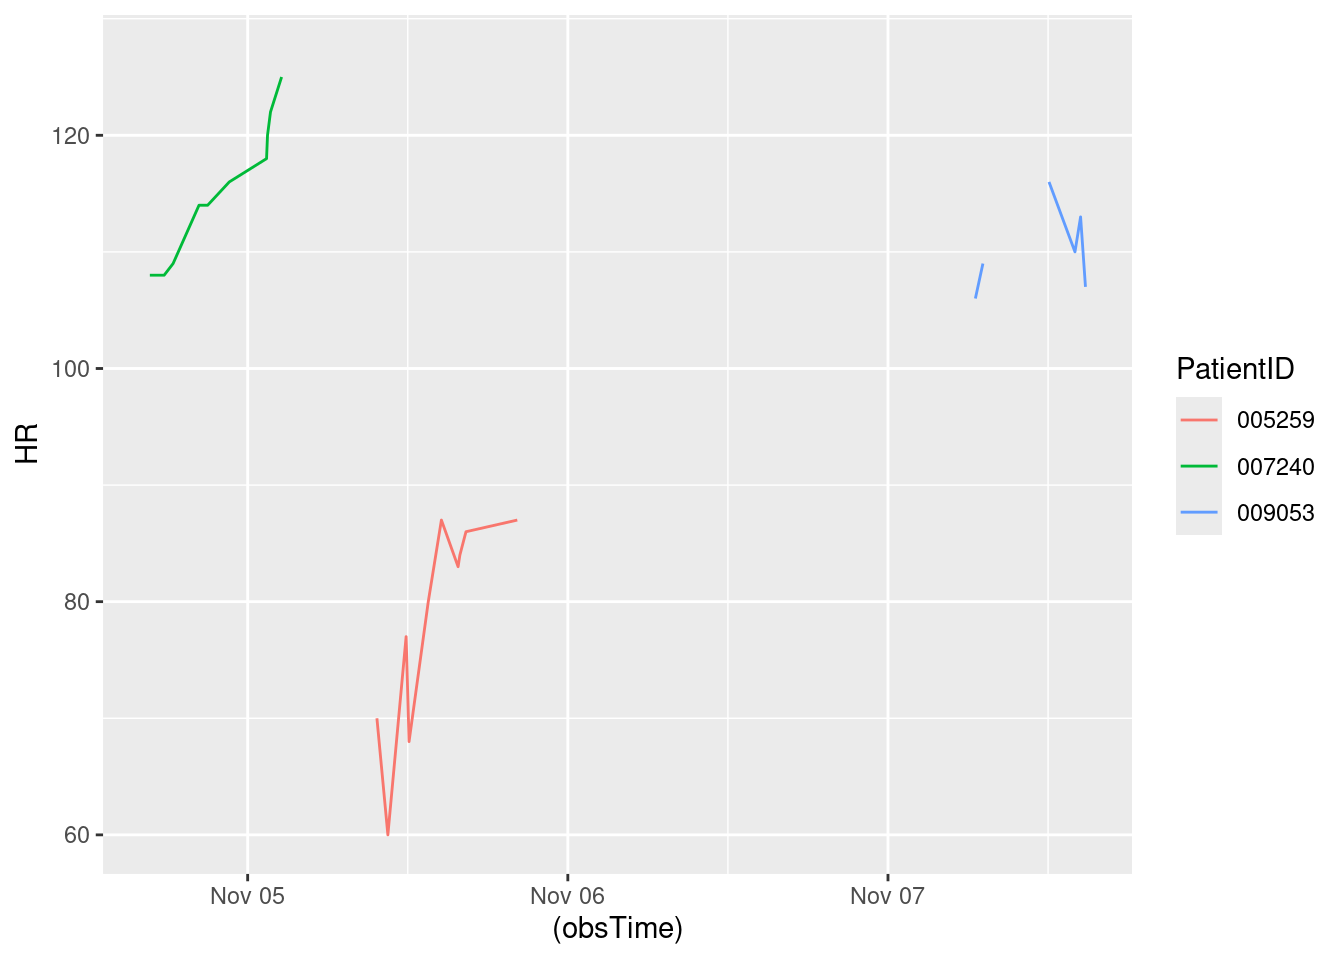
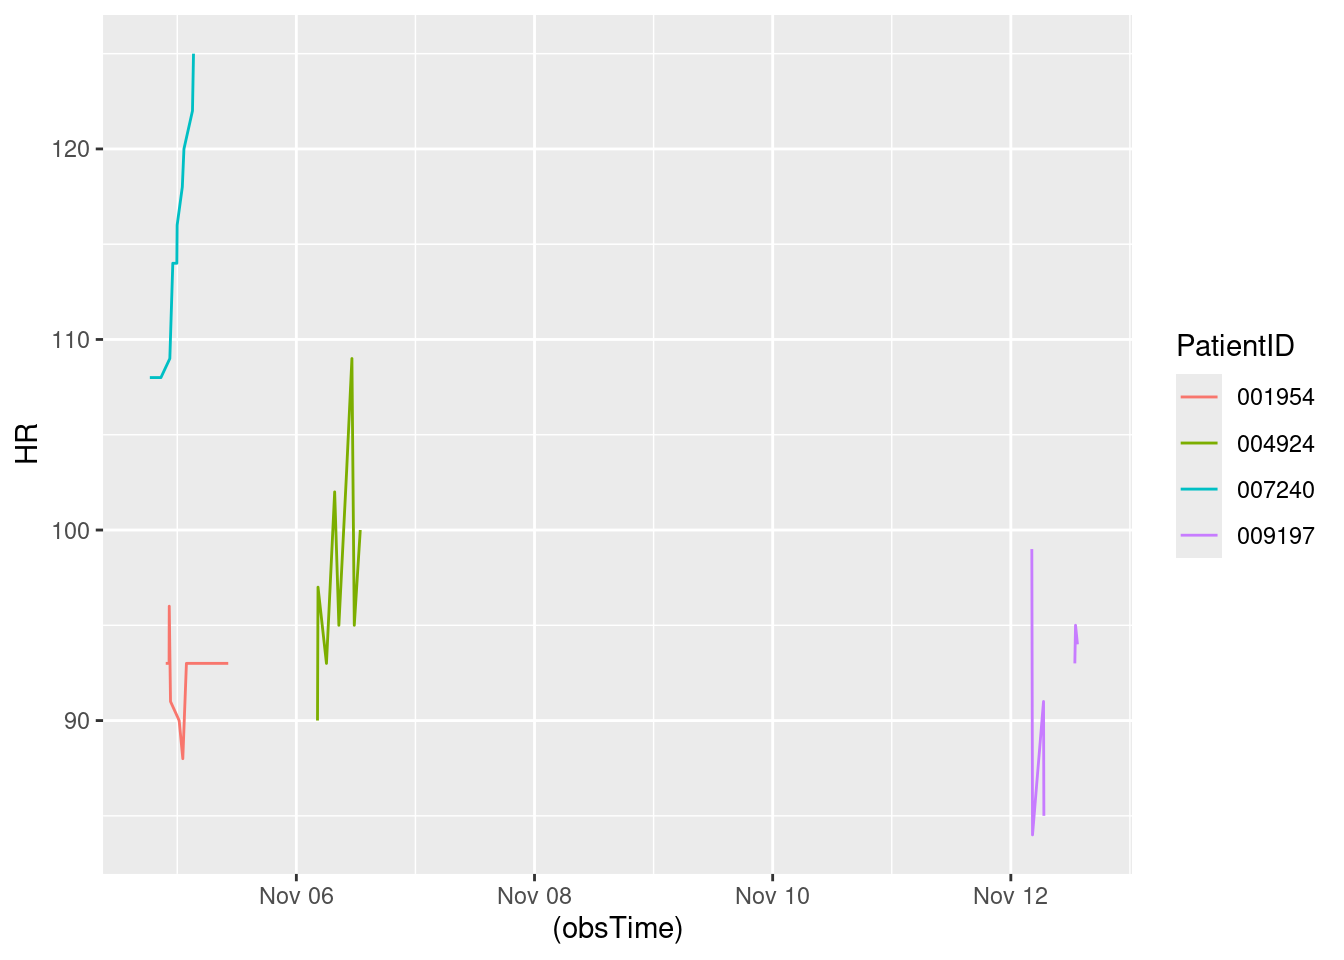
Updated report

diff --git a/HW7.html b/HW7.html
@@ -152,7 +152,7 @@ The following object is masked from 'package:purrr':
 </div>
 <div class="sourceCode cell-code" id="cb8"><pre class="sourceCode r code-with-copy"><code class="sourceCode r"><span id="cb8-1"><a href="#cb8-1" aria-hidden="true" tabindex="-1"></a><span class="fu">toc</span>()</span></code><button title="Copy to Clipboard" class="code-copy-button"><i class="bi"></i></button></pre></div>
 <div class="cell-output cell-output-stdout">
-<pre><code>28.782 sec elapsed</code></pre>
+<pre><code>15.565 sec elapsed</code></pre>
 </div>
 <div class="sourceCode cell-code" id="cb10"><pre class="sourceCode r code-with-copy"><code class="sourceCode r"><span id="cb10-1"><a href="#cb10-1" aria-hidden="true" tabindex="-1"></a><span class="fu">tic</span>()</span>
 <span id="cb10-2"><a href="#cb10-2" aria-hidden="true" tabindex="-1"></a>test1<span class="ot">=</span><span class="fu">makeSepsisDataset</span>(<span class="at">n=</span><span class="dv">50</span>,<span class="at">read_fn =</span> <span class="st">"read_delim"</span>)</span>
@@ -162,7 +162,7 @@ The following object is masked from 'package:purrr':
 </div>
 <div class="sourceCode cell-code" id="cb12"><pre class="sourceCode r code-with-copy"><code class="sourceCode r"><span id="cb12-1"><a href="#cb12-1" aria-hidden="true" tabindex="-1"></a><span class="fu">toc</span>()</span></code><button title="Copy to Clipboard" class="code-copy-button"><i class="bi"></i></button></pre></div>
 <div class="cell-output cell-output-stdout">
-<pre><code>21.588 sec elapsed</code></pre>
+<pre><code>10.504 sec elapsed</code></pre>
 </div>
 <div class="sourceCode cell-code" id="cb14"><pre class="sourceCode r code-with-copy"><code class="sourceCode r"><span id="cb14-1"><a href="#cb14-1" aria-hidden="true" tabindex="-1"></a><span class="fu">tic</span>()</span>
 <span id="cb14-2"><a href="#cb14-2" aria-hidden="true" tabindex="-1"></a>test1<span class="ot">=</span><span class="fu">makeSepsisDataset</span>(<span class="at">n=</span><span class="dv">100</span>,<span class="at">read_fn =</span> <span class="st">"fread"</span>)</span>
@@ -172,7 +172,7 @@ The following object is masked from 'package:purrr':
 </div>
 <div class="sourceCode cell-code" id="cb16"><pre class="sourceCode r code-with-copy"><code class="sourceCode r"><span id="cb16-1"><a href="#cb16-1" aria-hidden="true" tabindex="-1"></a><span class="fu">toc</span>()</span></code><button title="Copy to Clipboard" class="code-copy-button"><i class="bi"></i></button></pre></div>
 <div class="cell-output cell-output-stdout">
-<pre><code>50.987 sec elapsed</code></pre>
+<pre><code>20.696 sec elapsed</code></pre>
 </div>
 <div class="sourceCode cell-code" id="cb18"><pre class="sourceCode r code-with-copy"><code class="sourceCode r"><span id="cb18-1"><a href="#cb18-1" aria-hidden="true" tabindex="-1"></a><span class="fu">tic</span>()</span>
 <span id="cb18-2"><a href="#cb18-2" aria-hidden="true" tabindex="-1"></a>test1<span class="ot">=</span><span class="fu">makeSepsisDataset</span>(<span class="at">n=</span><span class="dv">100</span>,<span class="at">read_fn =</span> <span class="st">"read_delim"</span>)</span>
@@ -182,7 +182,7 @@ The following object is masked from 'package:purrr':
 </div>
 <div class="sourceCode cell-code" id="cb20"><pre class="sourceCode r code-with-copy"><code class="sourceCode r"><span id="cb20-1"><a href="#cb20-1" aria-hidden="true" tabindex="-1"></a><span class="fu">toc</span>()</span></code><button title="Copy to Clipboard" class="code-copy-button"><i class="bi"></i></button></pre></div>
 <div class="cell-output cell-output-stdout">
-<pre><code>43.493 sec elapsed</code></pre>
+<pre><code>16.469 sec elapsed</code></pre>
 </div>
 <div class="sourceCode cell-code" id="cb22"><pre class="sourceCode r code-with-copy"><code class="sourceCode r"><span id="cb22-1"><a href="#cb22-1" aria-hidden="true" tabindex="-1"></a><span class="fu">tic</span>()</span>
 <span id="cb22-2"><a href="#cb22-2" aria-hidden="true" tabindex="-1"></a>test1<span class="ot">=</span><span class="fu">makeSepsisDataset</span>(<span class="at">n=</span><span class="dv">500</span>,<span class="at">read_fn =</span> <span class="st">"fread"</span>)</span>
@@ -192,7 +192,7 @@ The following object is masked from 'package:purrr':
 </div>
 <div class="sourceCode cell-code" id="cb24"><pre class="sourceCode r code-with-copy"><code class="sourceCode r"><span id="cb24-1"><a href="#cb24-1" aria-hidden="true" tabindex="-1"></a><span class="fu">toc</span>()</span></code><button title="Copy to Clipboard" class="code-copy-button"><i class="bi"></i></button></pre></div>
 <div class="cell-output cell-output-stdout">
-<pre><code>262.279 sec elapsed</code></pre>
+<pre><code>97.908 sec elapsed</code></pre>
 </div>
 <div class="sourceCode cell-code" id="cb26"><pre class="sourceCode r code-with-copy"><code class="sourceCode r"><span id="cb26-1"><a href="#cb26-1" aria-hidden="true" tabindex="-1"></a><span class="fu">tic</span>()</span>
 <span id="cb26-2"><a href="#cb26-2" aria-hidden="true" tabindex="-1"></a>test1<span class="ot">=</span><span class="fu">makeSepsisDataset</span>(<span class="at">n=</span><span class="dv">500</span>,<span class="at">read_fn =</span> <span class="st">"read_delim"</span>)</span>
@@ -202,7 +202,7 @@ The following object is masked from 'package:purrr':
 </div>
 <div class="sourceCode cell-code" id="cb28"><pre class="sourceCode r code-with-copy"><code class="sourceCode r"><span id="cb28-1"><a href="#cb28-1" aria-hidden="true" tabindex="-1"></a><span class="fu">toc</span>()</span></code><button title="Copy to Clipboard" class="code-copy-button"><i class="bi"></i></button></pre></div>
 <div class="cell-output cell-output-stdout">
-<pre><code>213.03 sec elapsed</code></pre>
+<pre><code>81.749 sec elapsed</code></pre>
 </div>
 </div>
 <p>Problem 3: Speed reading</p>
@@ -244,7 +244,7 @@ dttm (1): obsTime
 <div class="sourceCode cell-code" id="cb35"><pre class="sourceCode r code-with-copy"><code class="sourceCode r"><span id="cb35-1"><a href="#cb35-1" aria-hidden="true" tabindex="-1"></a><span class="co">#Sys.Date()</span></span>
 <span id="cb35-2"><a href="#cb35-2" aria-hidden="true" tabindex="-1"></a><span class="fu">Sys.time</span>()</span></code><button title="Copy to Clipboard" class="code-copy-button"><i class="bi"></i></button></pre></div>
 <div class="cell-output cell-output-stdout">
-<pre><code>[1] "2024-11-04 12:54:36 UTC"</code></pre>
+<pre><code>[1] "2024-11-04 13:34:25 UTC"</code></pre>
 </div>
 <div class="sourceCode cell-code" id="cb37"><pre class="sourceCode r code-with-copy"><code class="sourceCode r"><span id="cb37-1"><a href="#cb37-1" aria-hidden="true" tabindex="-1"></a>dfnew<span class="ot">=</span>df <span class="sc">%&gt;%</span><span class="fu">subset</span>(SepsisLabel<span class="sc">==</span><span class="dv">1</span>)</span>
 <span id="cb37-2"><a href="#cb37-2" aria-hidden="true" tabindex="-1"></a></span>
@@ -259,18 +259,23 @@ dttm (1): obsTime
 <span id="cb37-11"><a href="#cb37-11" aria-hidden="true" tabindex="-1"></a></span>
 <span id="cb37-12"><a href="#cb37-12" aria-hidden="true" tabindex="-1"></a><span class="fu">print</span>(res)</span></code><button title="Copy to Clipboard" class="code-copy-button"><i class="bi"></i></button></pre></div>
 <div class="cell-output cell-output-stdout">
-<pre><code># A tibble: 3 × 7
-# Groups:   PatientID [3]
+<pre><code># A tibble: 4 × 7
+# Groups:   PatientID [4]
   PatientID ICULOS    HR  Temp  Resp SepsisLabel obsTime            
   &lt;chr&gt;      &lt;int&gt; &lt;int&gt; &lt;dbl&gt; &lt;int&gt;       &lt;int&gt; &lt;dttm&gt;             
-1 005259        37    87  NA      20           1 2024-11-05 20:12:39
-2 007240        15   125  NA      14           1 2024-11-05 02:32:36
-3 009053        74   107  35.8    14           1 2024-11-07 14:48:13</code></pre>
+1 001954        23    93  38.5    10           1 2024-11-05 10:16:26
+2 004924        48   100  NA      28           1 2024-11-06 12:52:57
+3 007240        15   125  NA      14           1 2024-11-05 03:16:19
+4 009197       194    NA  NA      NA           1 2024-11-12 15:02:32</code></pre>
 </div>
 </div>
 <div class="cell">
 <div class="sourceCode cell-code" id="cb39"><pre class="sourceCode r code-with-copy"><code class="sourceCode r"><span id="cb39-1"><a href="#cb39-1" aria-hidden="true" tabindex="-1"></a>dfnew <span class="sc">%&gt;%</span></span>
 <span id="cb39-2"><a href="#cb39-2" aria-hidden="true" tabindex="-1"></a>  <span class="fu">ggplot</span>()<span class="sc">+</span><span class="fu">geom_line</span>(<span class="fu">aes</span>(<span class="at">y=</span>HR,<span class="at">x=</span>(obsTime),<span class="at">color=</span>PatientID))</span></code><button title="Copy to Clipboard" class="code-copy-button"><i class="bi"></i></button></pre></div>
+<div class="cell-output cell-output-stderr">
+<pre><code>Warning: Removed 1 row containing missing values or values outside the scale range
+(`geom_line()`).</code></pre>
+</div>
 <div class="cell-output-display">
 <div>
 <figure class="figure">
@@ -283,7 +288,7 @@ dttm (1): obsTime
 <section id="display-the-most-recent-data" class="level2">
 <h2 class="anchored" data-anchor-id="display-the-most-recent-data">Display the most recent data</h2>
 <div class="cell">
-<div class="sourceCode cell-code" id="cb40"><pre class="sourceCode r code-with-copy"><code class="sourceCode r"><span id="cb40-1"><a href="#cb40-1" aria-hidden="true" tabindex="-1"></a>most_recent_data</span></code><button title="Copy to Clipboard" class="code-copy-button"><i class="bi"></i></button></pre></div>
+<div class="sourceCode cell-code" id="cb41"><pre class="sourceCode r code-with-copy"><code class="sourceCode r"><span id="cb41-1"><a href="#cb41-1" aria-hidden="true" tabindex="-1"></a>most_recent_data</span></code><button title="Copy to Clipboard" class="code-copy-button"><i class="bi"></i></button></pre></div>
 <div class="cell-output cell-output-stdout">
 <pre><code># A tibble: 50 × 7
 # Groups:   PatientID [50]
@@ -306,32 +311,32 @@ dttm (1): obsTime
 <section id="calculate-the-difference" class="level2">
 <h2 class="anchored" data-anchor-id="calculate-the-difference">Calculate the difference</h2>
 <div class="cell">
-<div class="sourceCode cell-code" id="cb42"><pre class="sourceCode r code-with-copy"><code class="sourceCode r"><span id="cb42-1"><a href="#cb42-1" aria-hidden="true" tabindex="-1"></a><span class="fu">library</span>(dplyr)</span>
-<span id="cb42-2"><a href="#cb42-2" aria-hidden="true" tabindex="-1"></a><span class="fu">library</span>(tidyr)</span>
-<span id="cb42-3"><a href="#cb42-3" aria-hidden="true" tabindex="-1"></a><span class="fu">library</span>(knitr)</span>
-<span id="cb42-4"><a href="#cb42-4" aria-hidden="true" tabindex="-1"></a>get_observation_data <span class="ot">&lt;-</span> <span class="cf">function</span>(data, n, column_suffix) {</span>
-<span id="cb42-5"><a href="#cb42-5" aria-hidden="true" tabindex="-1"></a>  data <span class="sc">%&gt;%</span></span>
-<span id="cb42-6"><a href="#cb42-6" aria-hidden="true" tabindex="-1"></a>    <span class="fu">group_by</span>(PatientID) <span class="sc">%&gt;%</span></span>
-<span id="cb42-7"><a href="#cb42-7" aria-hidden="true" tabindex="-1"></a>    <span class="fu">slice_max</span>(<span class="at">order_by =</span> obsTime, <span class="at">n =</span> n) <span class="sc">%&gt;%</span></span>
-<span id="cb42-8"><a href="#cb42-8" aria-hidden="true" tabindex="-1"></a>    <span class="fu">select</span>(<span class="sc">-</span><span class="fu">c</span>(ICULOS, SepsisLabel, obsTime)) <span class="sc">%&gt;%</span></span>
-<span id="cb42-9"><a href="#cb42-9" aria-hidden="true" tabindex="-1"></a>    <span class="fu">rename_at</span>(<span class="fu">vars</span>(HR, Temp, Resp),</span>
-<span id="cb42-10"><a href="#cb42-10" aria-hidden="true" tabindex="-1"></a>              <span class="fu">list</span>(<span class="sc">~</span><span class="fu">paste0</span>(., <span class="st">"_"</span>, column_suffix)))</span>
-<span id="cb42-11"><a href="#cb42-11" aria-hidden="true" tabindex="-1"></a>}</span>
-<span id="cb42-12"><a href="#cb42-12" aria-hidden="true" tabindex="-1"></a></span>
-<span id="cb42-13"><a href="#cb42-13" aria-hidden="true" tabindex="-1"></a></span>
-<span id="cb42-14"><a href="#cb42-14" aria-hidden="true" tabindex="-1"></a></span>
-<span id="cb42-15"><a href="#cb42-15" aria-hidden="true" tabindex="-1"></a></span>
-<span id="cb42-16"><a href="#cb42-16" aria-hidden="true" tabindex="-1"></a>last_obs <span class="ot">&lt;-</span> <span class="fu">get_observation_data</span>(new_data, <span class="dv">1</span>, <span class="st">"last"</span>)</span>
-<span id="cb42-17"><a href="#cb42-17" aria-hidden="true" tabindex="-1"></a>penultimate_obs <span class="ot">&lt;-</span> <span class="fu">get_observation_data</span>(new_data, <span class="dv">2</span>, <span class="st">"penult"</span>)</span>
-<span id="cb42-18"><a href="#cb42-18" aria-hidden="true" tabindex="-1"></a>joined_data <span class="ot">&lt;-</span> <span class="fu">full_join</span>(last_obs, penultimate_obs) <span class="sc">%&gt;%</span></span>
-<span id="cb42-19"><a href="#cb42-19" aria-hidden="true" tabindex="-1"></a>  <span class="fu">transmute</span>(PatientID,</span>
-<span id="cb42-20"><a href="#cb42-20" aria-hidden="true" tabindex="-1"></a>            <span class="st">`</span><span class="at">Temperature change</span><span class="st">`</span> <span class="ot">=</span> Temp_last <span class="sc">-</span> Temp_penult,</span>
-<span id="cb42-21"><a href="#cb42-21" aria-hidden="true" tabindex="-1"></a>            <span class="st">`</span><span class="at">Heart rate change</span><span class="st">`</span> <span class="ot">=</span> HR_last <span class="sc">-</span> HR_penult,</span>
-<span id="cb42-22"><a href="#cb42-22" aria-hidden="true" tabindex="-1"></a>            <span class="st">`</span><span class="at">Respiratory rate change</span><span class="st">`</span> <span class="ot">=</span> Resp_last <span class="sc">-</span> Resp_penult)</span></code><button title="Copy to Clipboard" class="code-copy-button"><i class="bi"></i></button></pre></div>
+<div class="sourceCode cell-code" id="cb43"><pre class="sourceCode r code-with-copy"><code class="sourceCode r"><span id="cb43-1"><a href="#cb43-1" aria-hidden="true" tabindex="-1"></a><span class="fu">library</span>(dplyr)</span>
+<span id="cb43-2"><a href="#cb43-2" aria-hidden="true" tabindex="-1"></a><span class="fu">library</span>(tidyr)</span>
+<span id="cb43-3"><a href="#cb43-3" aria-hidden="true" tabindex="-1"></a><span class="fu">library</span>(knitr)</span>
+<span id="cb43-4"><a href="#cb43-4" aria-hidden="true" tabindex="-1"></a>get_observation_data <span class="ot">&lt;-</span> <span class="cf">function</span>(data, n, column_suffix) {</span>
+<span id="cb43-5"><a href="#cb43-5" aria-hidden="true" tabindex="-1"></a>  data <span class="sc">%&gt;%</span></span>
+<span id="cb43-6"><a href="#cb43-6" aria-hidden="true" tabindex="-1"></a>    <span class="fu">group_by</span>(PatientID) <span class="sc">%&gt;%</span></span>
+<span id="cb43-7"><a href="#cb43-7" aria-hidden="true" tabindex="-1"></a>    <span class="fu">slice_max</span>(<span class="at">order_by =</span> obsTime, <span class="at">n =</span> n) <span class="sc">%&gt;%</span></span>
+<span id="cb43-8"><a href="#cb43-8" aria-hidden="true" tabindex="-1"></a>    <span class="fu">select</span>(<span class="sc">-</span><span class="fu">c</span>(ICULOS, SepsisLabel, obsTime)) <span class="sc">%&gt;%</span></span>
+<span id="cb43-9"><a href="#cb43-9" aria-hidden="true" tabindex="-1"></a>    <span class="fu">rename_at</span>(<span class="fu">vars</span>(HR, Temp, Resp),</span>
+<span id="cb43-10"><a href="#cb43-10" aria-hidden="true" tabindex="-1"></a>              <span class="fu">list</span>(<span class="sc">~</span><span class="fu">paste0</span>(., <span class="st">"_"</span>, column_suffix)))</span>
+<span id="cb43-11"><a href="#cb43-11" aria-hidden="true" tabindex="-1"></a>}</span>
+<span id="cb43-12"><a href="#cb43-12" aria-hidden="true" tabindex="-1"></a></span>
+<span id="cb43-13"><a href="#cb43-13" aria-hidden="true" tabindex="-1"></a></span>
+<span id="cb43-14"><a href="#cb43-14" aria-hidden="true" tabindex="-1"></a></span>
+<span id="cb43-15"><a href="#cb43-15" aria-hidden="true" tabindex="-1"></a></span>
+<span id="cb43-16"><a href="#cb43-16" aria-hidden="true" tabindex="-1"></a>last_obs <span class="ot">&lt;-</span> <span class="fu">get_observation_data</span>(new_data, <span class="dv">1</span>, <span class="st">"last"</span>)</span>
+<span id="cb43-17"><a href="#cb43-17" aria-hidden="true" tabindex="-1"></a>penultimate_obs <span class="ot">&lt;-</span> <span class="fu">get_observation_data</span>(new_data, <span class="dv">2</span>, <span class="st">"penult"</span>)</span>
+<span id="cb43-18"><a href="#cb43-18" aria-hidden="true" tabindex="-1"></a>joined_data <span class="ot">&lt;-</span> <span class="fu">full_join</span>(last_obs, penultimate_obs) <span class="sc">%&gt;%</span></span>
+<span id="cb43-19"><a href="#cb43-19" aria-hidden="true" tabindex="-1"></a>  <span class="fu">transmute</span>(PatientID,</span>
+<span id="cb43-20"><a href="#cb43-20" aria-hidden="true" tabindex="-1"></a>            <span class="st">`</span><span class="at">Temperature change</span><span class="st">`</span> <span class="ot">=</span> Temp_last <span class="sc">-</span> Temp_penult,</span>
+<span id="cb43-21"><a href="#cb43-21" aria-hidden="true" tabindex="-1"></a>            <span class="st">`</span><span class="at">Heart rate change</span><span class="st">`</span> <span class="ot">=</span> HR_last <span class="sc">-</span> HR_penult,</span>
+<span id="cb43-22"><a href="#cb43-22" aria-hidden="true" tabindex="-1"></a>            <span class="st">`</span><span class="at">Respiratory rate change</span><span class="st">`</span> <span class="ot">=</span> Resp_last <span class="sc">-</span> Resp_penult)</span></code><button title="Copy to Clipboard" class="code-copy-button"><i class="bi"></i></button></pre></div>
 <div class="cell-output cell-output-stderr">
 <pre><code>Joining with `by = join_by(PatientID)`</code></pre>
 </div>
-<div class="sourceCode cell-code" id="cb44"><pre class="sourceCode r code-with-copy"><code class="sourceCode r"><span id="cb44-1"><a href="#cb44-1" aria-hidden="true" tabindex="-1"></a><span class="fu">kable</span>(joined_data, <span class="at">caption =</span> <span class="st">"Patients' Recent Changes in Vital Stats"</span>)</span></code><button title="Copy to Clipboard" class="code-copy-button"><i class="bi"></i></button></pre></div>
+<div class="sourceCode cell-code" id="cb45"><pre class="sourceCode r code-with-copy"><code class="sourceCode r"><span id="cb45-1"><a href="#cb45-1" aria-hidden="true" tabindex="-1"></a><span class="fu">kable</span>(joined_data, <span class="at">caption =</span> <span class="st">"Patients' Recent Changes in Vital Stats"</span>)</span></code><button title="Copy to Clipboard" class="code-copy-button"><i class="bi"></i></button></pre></div>
 <div class="cell-output-display">
 <table class="caption-top table table-sm table-striped small">
 <caption>Patients’ Recent Changes in Vital Stats</caption>
